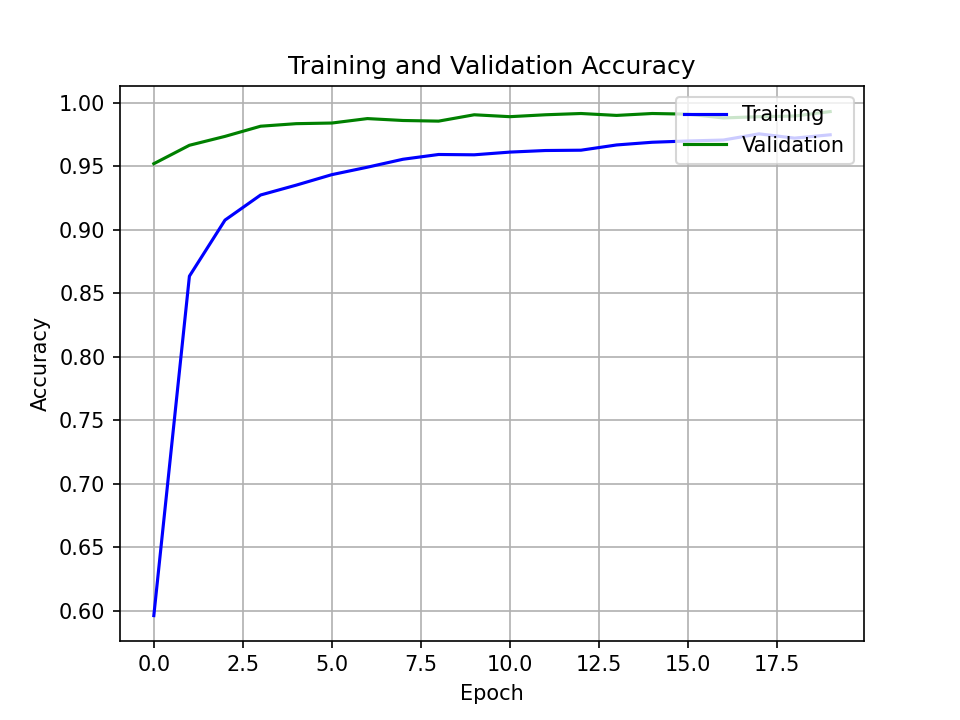
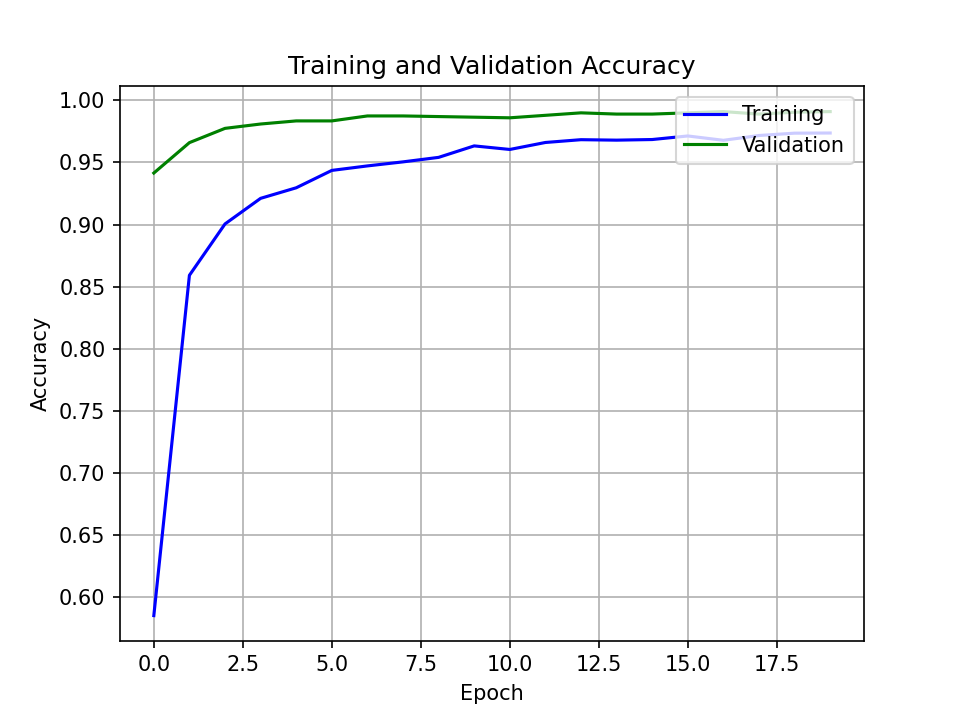
Project the embeddings onto a 2D space, visualize them.

diff --git a/app/src/helpers/embeddings.py b/app/src/helpers/embeddings.py
@@ -1,16 +1,34 @@
 
 
+import matplotlib.pyplot as plt
+import numpy as np
 import tensorflow as tf
 
+from sklearn.manifold import TSNE
+from typing import Tuple, Any
 
-def embedding_generation(
-    initial_model,
-    train_images,
-    seed_images,    
-):
+
+def generation(
+    initial_model: tf.keras.Model,
+    train_images: np.ndarray,
+    seed_images: np.ndarray,    
+) -> Tuple[np.ndarray, np.ndarray]:
     """
+    Extracting embeddings from a pre-trained model to the training and seed images,
+    by using the last dense layer
+            Args:
+                initial_model:
+                    Pre-trained model to extract its representations.
+                train_images:
+                    Set of train images.
+                seed_images:
+                    set of seed images.
+            Returns:
+                train_embeddings: 
+                    Embeddings from training set.
+                seed_embeddings:
+                    Embeddings from seed set.
     """
-    
     layer_names = [
         layer.name 
         for layer in initial_model.layers
@@ -39,3 +57,39 @@ def embedding_generation(
         seed_images.reshape(-1,28,28,1)
     )
     return train_embeddings, seed_embeddings
+
+
+def projection_2d(
+    train_embeddings: np.ndarray,
+    sample_size: int = 3000,
+    visualization: bool = True
+) -> np.ndarray:
+    """
+    It prjects embedding of high dimension into a 2D space by using TSNE.
+            Args:
+                train_embeddings:
+                    Embedding matrix from trainset.
+                sample_size:
+                    Sample size to use the projection.
+                visualization:
+                    If true, it will save a picture in `app/output/embeddings_2d.png`
+            Returns:
+                embeddings_2d with the 2-dimensional projection of the given embeddings. 
+    """
+    embeddings_2d =  TSNE(n_components=2).fit_transform(
+        train_embeddings[:sample_size]
+        )  
+
+    if visualization:
+        plt.scatter(
+            embeddings_2d[:, 0], 
+            embeddings_2d[:, 1], 
+            cmap='tab10'
+            )
+        plt.colorbar()
+        plt.savefig('../output/embeddings_2d.png', dpi=150)
+        plt.show()
+        
+    return embeddings_2d
+
+

diff --git a/app/src/pipeline.py b/app/src/pipeline.py
@@ -1,5 +1,5 @@
 from helpers.model import cnn_model
-from helpers.embeddings import embedding_generation
+from helpers.embeddings import generation, projection_2d
 from constants import (
     SEED_IMAGES,
     SEED_LABEL,
@@ -13,8 +13,12 @@ history_model, initial_model = cnn_model(
     visualization=True
 )
 
-train_embeddings, seed_embeddings = embedding_generation(
+train_embeddings, seed_embeddings = generation(
     initial_model,
     TRAIN_IMAGES,
     SEED_IMAGES   
+)
+
+embeddings_2d = projection_2d(
+    train_embeddings
 )
